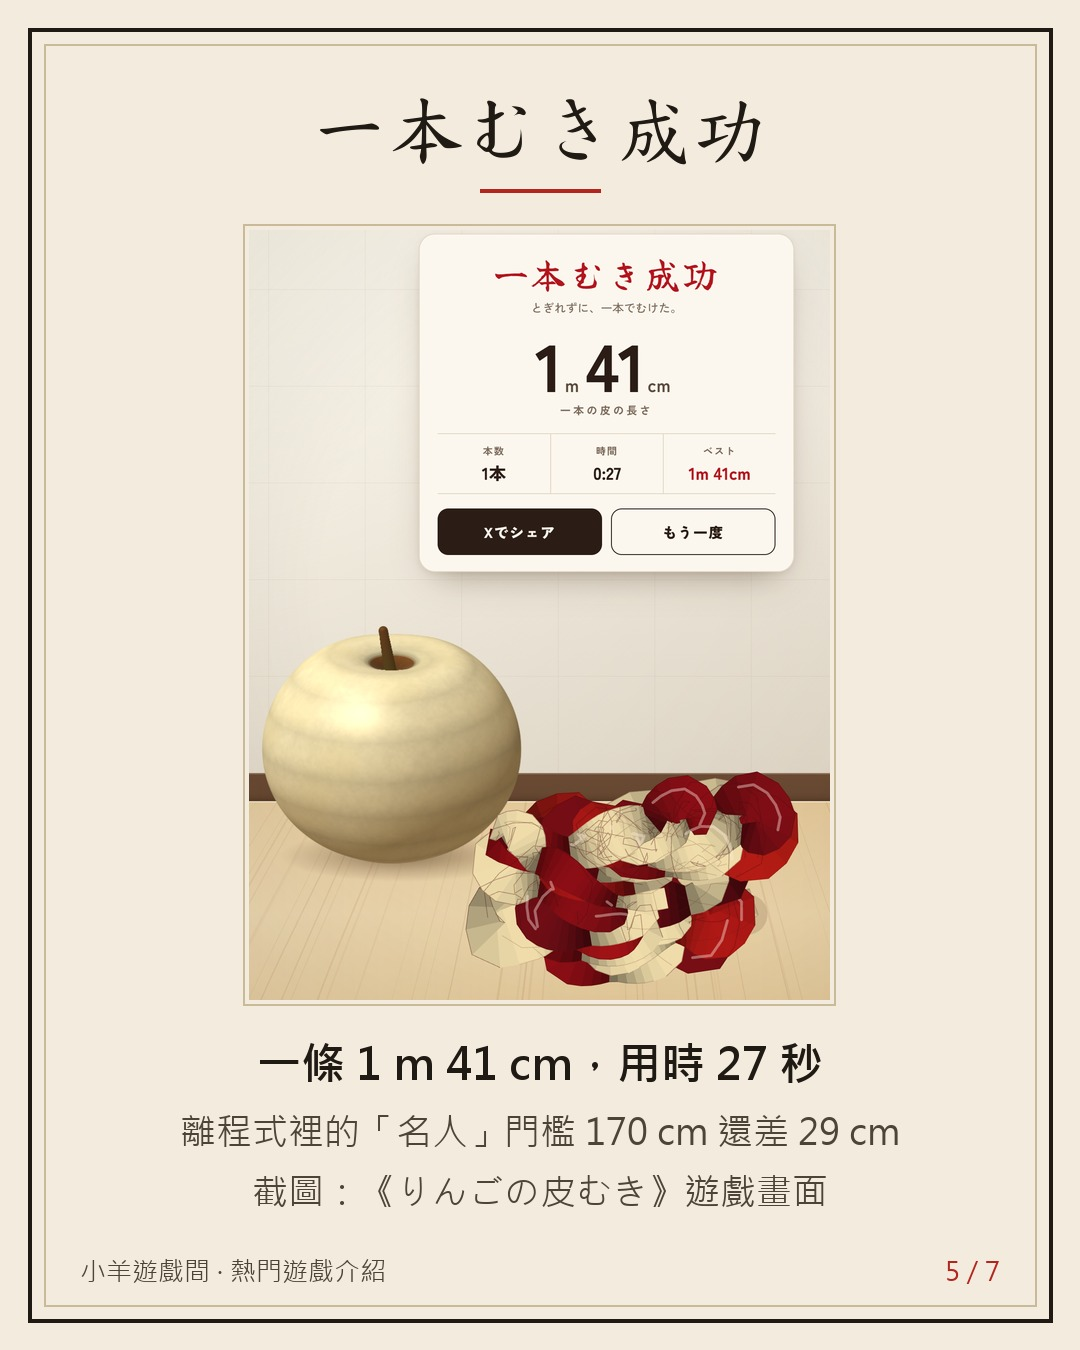
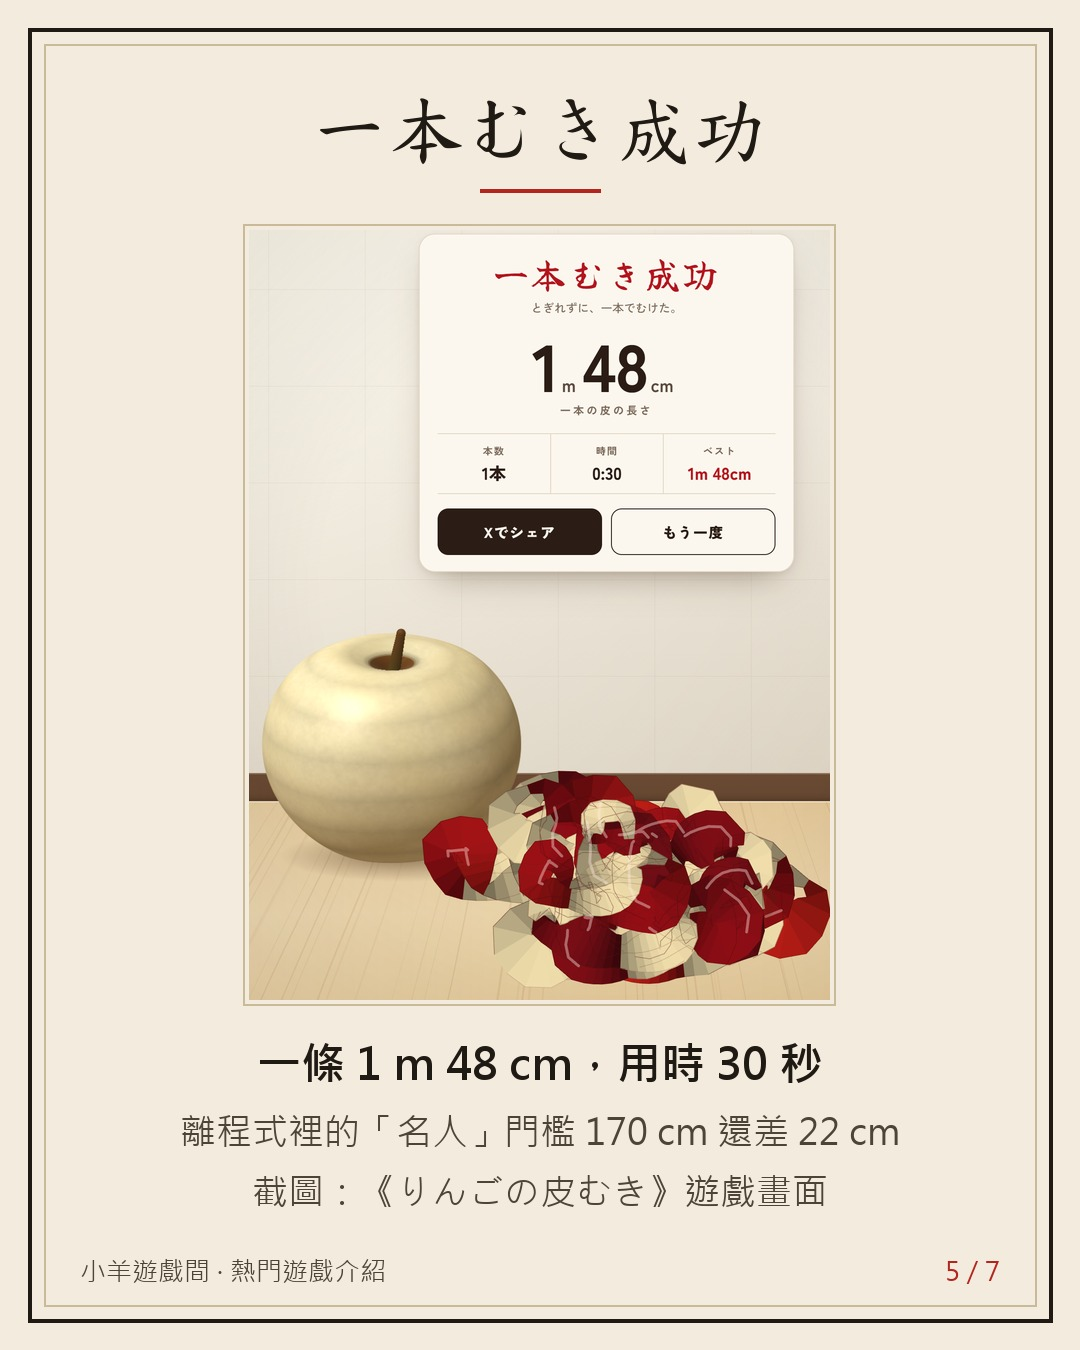
vault backup: 2026-11-22 23:58:42

diff --git a/Projects/auto promotion/posts/86.md b/Projects/auto promotion/posts/86.md
@@ -2,12 +2,12 @@
 id: 86
 type: popular
 game: りんごの皮むき（削蘋果皮／削蘋果大作戰，ringo-no-kawamuki.pages.dev，頁面署名站名「ひねもすリョータ」）
-topic: "削蘋果皮：用手指轉蘋果、一刀削出不斷的皮的網頁遊戲（星島頭條 10/23 爆紅網頁小遊戲整理收錄）；實測全力快拖 4 回都斷成 24～29 段、最長一段 8～13 cm；放慢到約 30 秒 11 回 6 回一條不斷、皮長 138～149 cm；程式：削越慢皮越薄越長、170 cm 封名人、240 cm 封仙人"
-status: 草稿
+topic: "削蘋果皮：用手指轉蘋果、一刀削出不斷的皮的網頁遊戲（星島頭條 10/23 爆紅網頁小遊戲整理收錄）；實測快拖 6 回斷成 6～9 段（3 回被封みじん切り）；放慢到約 27 秒 8 回 3 回一條不斷、138～148 cm；程式：170 cm 封名人、240 cm 封仙人"
+status: 待發
 created: 2026-11-22 21:30
-score: 0
+score: 8.2
 ---
-# 【介紹】網頁遊戲《りんごの皮むき》：手一快，蘋果皮碎成 28 段
+# 【介紹】網頁遊戲《りんごの皮むき》：同一顆蘋果，手快斷成 6 到 9 段
 
 ## Threads
 ### 1
@@ -15,20 +15,22 @@ score: 0
 手快一抖碎滿桌。
 
 【介紹】《りんごの皮むき》（削蘋果皮）
-話說江湖上有一門日式奇功：用手指轉蘋果，一刀削出一整條不斷的皮，看誰削得長。星島頭條 10/23 整理的爆紅網頁小遊戲有收錄，頁面署名站名「ひねもすリョータ」，作者沒有更多介紹。
+同一顆蘋果，快拖 6 回都斷成 6 到 9 段，放慢才削出一整條。
+話說江湖上有一門日式奇功：用手指轉蘋果，一刀削出一整條不斷的皮。星島頭條 10/23 整理的爆紅網頁小遊戲有收錄，頁面署名站名「ひねもすリョータ」，作者沒有更多介紹。
+圖片來源：《りんごの皮むき》官方
 ![[86/01.jpg]]
 ### 2
 且說在下實測：
-全力快拖，約 6 到 8 秒削完，4 回都碎成 24 到 29 段，最長一段只有 8 到 13 公分，皮加起來才 96 到 99 公分。
-放慢到約 30 秒，11 回有 6 回一氣呵成，一條 138 到 149 公分。
-同一顆蘋果，快削碎滿桌，慢削一條皮。江湖險惡 XD（滑鼠拖曳，時間與公分都是遊戲自己的讀數。）
+快拖約 15 秒削完，6 回斷成 6 到 9 段，其中 3 回被遊戲封「みじん切り」（碎末）。6 回裡有 3 回，官方認證在下的刀法是碎末。XD
+放慢到 26 到 30 秒，8 回有 3 回一氣呵成：138、141、148 公分；另 5 回斷成 2 到 4 段。
+（滑鼠、固定快慢；快拖 6 回、慢拖 8 回，樣本小；數字是遊戲自己的讀數，手指成績會不同。）
 ![[86/03.jpg]]
 ### 3
-翻開祕笈（遊戲公開程式）：削越慢，皮越薄、越長；手一急一抖，皮就斷。
-一條不斷的皮要 170 公分才封「皮むき名人」，240 公分封「りんご仙人」。在下最長 149 公分，離名人還差 29 公分。
-此功手機點開即可練，不用註冊。
-考考閣下：你一條皮削得幾公分？留言報個數。
-下回再介紹一門網頁奇功，一樣附實測數字，想看請追蹤。
+翻開祕笈（遊戲公開程式）：削越慢，皮越薄；手一急一抖，皮就斷。
+一條不斷的皮要 170 公分才封「皮むき名人」（削皮名人），240 公分封「りんご仙人」（蘋果仙人）。在下最長 148 公分，離名人還差 22 公分。
+訣竅：削越慢皮越薄（程式裡寬度隨速度變），在下實測總長也跟著長（快削 109 到 115，慢削 137 到 148 公分），但慢拖也只有 3/8 一條到底，要 170 還得更穩。
+網頁點開即玩，不用註冊。考考閣下：在下最長 148 公分，你一條皮削得幾公分？破 148 的留言報數，在下拱手。
+下回在下再削一輪，削到 170 就報喜，削不到也照實報數，想看請追蹤。
 ![[86/05.jpg]]
 ### 連結
 《りんごの皮むき》https://ringo-no-kawamuki.pages.dev/ （網頁點開即可玩，不用註冊）。想再找一門點了就玩的奇功，都在小羊遊戲間 👉 https://games.csiesheep.com/
@@ -38,12 +40,14 @@ score: 0
 慢削一刀皮不斷，手快一抖碎滿桌。
 
 【介紹】《りんごの皮むき》（削蘋果皮）
-話說江湖上有一門日式奇功：用手指轉蘋果，一刀削出一整條不斷的皮，看誰削得長。
-在下實測：全力快拖，約 6 到 8 秒削完，4 回都碎成 24 到 29 段，皮加起來才 96 到 99 公分；放慢到約 30 秒，11 回有 6 回一氣呵成，一條 138 到 149 公分。程式裡一條不斷的皮要 170 公分才封「名人」，在下最長 149 公分。（滑鼠拖曳，數字是遊戲自己的讀數。）
-網頁點開即玩，不用註冊。考考閣下：你一條皮削得幾公分？留言報個數。
-下回再介紹一門網頁奇功，一樣附實測數字，想看請追蹤。
+同一顆蘋果，快拖 6 回都斷成 6 到 9 段，放慢才削出一整條。
+話說江湖上有一門日式奇功：用手指轉蘋果，一刀削出一整條不斷的皮。
+在下實測：快拖約 15 秒，6 回中 3 回被遊戲封「みじん切り」（碎末）；放慢到 26 到 30 秒，8 回有 3 回一氣呵成：138、141、148 公分。程式裡一條不斷的皮要 170 公分才封「名人」，在下最長 148 公分，還差 22 公分。（滑鼠、固定快慢，數字是遊戲自己的讀數，手指的成績會不同。）
+網頁點開即玩，不用註冊。考考閣下：在下最長 148 公分，你一條皮削得幾公分？破 148 的留言報數，在下拱手。
+下回在下再削一輪，削到 170 就報喜，削不到也照實報數，想看請追蹤。
+圖：遊戲官方圖與遊戲畫面截圖
 
-連結在主頁
+連結在主頁（小羊遊戲間）
 #小羊遊戲間 #網頁遊戲推薦 #免費小遊戲 #削蘋果皮
 
 卡片：![[86/01.jpg]] ![[86/02.jpg]] ![[86/03.jpg]] ![[86/04.jpg]] ![[86/05.jpg]] ![[86/06.jpg]] ![[86/07.jpg]]
@@ -53,19 +57,21 @@ score: 0
 手快一抖碎滿桌。
 
 【介紹】《りんごの皮むき》（削蘋果皮）
-話說江湖上有一門日式奇功：用手指轉蘋果，一刀削出一整條不斷的皮，看誰削得長。桌面用滑鼠往右拖，手機用手指往右劃；拖得太急，皮就斷。星島頭條 10/23 整理的爆紅網頁小遊戲有收錄；頁面署名站名「ひねもすリョータ」，作者沒有更多介紹。
+同一顆蘋果，快拖 6 回都斷成 6 到 9 段，放慢才削出一整條。
+話說江湖上有一門日式奇功：用手指轉蘋果，一刀削出一整條不斷的皮。操作很簡單：往右拖；拖得太急，皮就斷。星島頭條 10/23 整理的爆紅網頁小遊戲有收錄；頁面署名站名「ひねもすリョータ」，作者沒有更多介紹。
 
-且說在下實測（滑鼠拖曳，時間與公分都是遊戲自己的讀數）：
-🍎 全力快拖：約 6 到 8 秒削完，4 回都碎成 24 到 29 段，最長一段 8 到 13 公分，皮加起來 96 到 99 公分。
-🐢 放慢到約 30 秒：11 回有 6 回一條不斷，皮長 138 到 149 公分，用時 26 到 30 秒；另 5 回斷成 2 到 5 段。
-同一顆蘋果，快削碎滿桌，慢削一條皮。江湖險惡 XD
+且說在下實測（滑鼠、固定快慢；數字是遊戲自己的讀數，手指成績會不同）：
+🍎 快拖：約 15 秒削完，6 回斷成 6、6、7、8、8、9 段，3 回被封「みじん切り」（碎末）；皮加起來 109 到 115 公分，最長一段 26 到 30 公分。6 回裡有 3 回，官方認證在下的刀法是碎末。XD
+🐢 放慢到 26 到 30 秒：8 回有 3 回一條不斷，138、141、148 公分；另 5 回斷成 2 到 4 段。
+同一顆蘋果，慢削的皮總長 137 到 148 公分，快削只有 109 到 115 公分。
 
 翻開祕笈（遊戲公開程式）：
-📜 蘋果半徑 4 公分；削越慢，皮越薄、越長，手一急一抖，皮就斷。
-📜 一條不斷的皮 170 公分封「皮むき名人」，240 公分封「りんご仙人」；斷成 8 段以上叫「みじん切り」（碎末）。
-📜 在下最長一條 149 公分，離名人還差 29 公分。
+📜 蘋果半徑 4 公分；削越慢，皮越薄，手一急一抖，皮就斷。
+📜 一條不斷的皮 170 公分封「皮むき名人」（削皮名人），240 公分封「りんご仙人」（蘋果仙人）；斷成 8 段以上叫「みじん切り」（碎末）。
+📜 在下最長一條 148 公分，離名人還差 22 公分。
+訣竅：削越慢皮越薄，總長也越長（快削 109 到 115，慢削 137 到 148 公分），但慢拖也只有 3/8 一條到底，要 170 還得更穩。
 
-網頁點開即可玩，不用註冊。考考閣下：你一條皮削得幾公分？留言報個數。下回再介紹一門網頁奇功，一樣附實測數字，想看請追蹤。
+網頁點開即可玩，不用註冊。考考閣下：在下最長 148 公分，你一條皮削得幾公分？破 148 的留言報數，在下拱手。下回在下再削一輪，削到 170 就報喜，削不到也照實報數，想看請追蹤。
 
 遊戲：https://ringo-no-kawamuki.pages.dev/
 👉 更多點了就玩的網頁小遊戲（不用註冊），都在小羊遊戲間：https://games.csiesheep.com/
@@ -79,15 +85,19 @@ score: 0
 - 同頁程式（未混淆，可讀）：PEEL.R_CM=4.0（蘋果半徑 4 cm）；削的寬度隨速度變（慢＝薄）；斷裂條件由拉力、速度突增與皮寬決定；rankOf：只有一條皮時 ≥240 cm「りんご仙人」、≥170 cm「皮むき名人」、其餘「一本むき成功」；斷 2～3 段「おしい」、4～7 段「ちぎれがち」、8 段以上「みじん切り」；操作＝指標往右拖（pointer events，手機可玩）
 - 星島頭條 2026-10-23 13:26 HKT「好過睇AI短劇!10個爆紅網上小遊戲」https://www.stheadline.com/ohpama/3629174 — 列有「削蘋果大作戰」並附連結 ringo-no-kawamuki.pages.dev，稱模擬在廚房削蘋果、手指繞蘋果表皮移動、要一氣呵成削出一條不斷的皮不容易；全文沒有作者名，沒有說是不是 AI 做的（所以貼文不寫 AI）
 - 4388 小遊戲站「削蘋果皮」頁（https://4388.fun/t/threads 收錄）— 說明「用手指慢慢轉動蘋果削皮，一刀不斷，看你能削多長」；評分 71%；作者、日期未載；不寫人氣數字
-- 實測（headless Chrome，真實滑鼠事件 Input.dispatchMouseEvent，遊戲碼為原檔未改；視窗 1200×900，每回重新載入、按「むきはじめる」；每筆拖曳由慢到快加速 0.9 秒、拖到約 960 px 就放開再從左抓；工具 Pictures/auto_promotion/post_frames/86_apple/tools/peel2.mjs、peel3.mjs；記錄 shots/results2.jsonl、results3.jsonl，另有 17 筆 results_loaded_INVALID.jsonl 是 8 個 Chrome 同時跑、畫面掉幀時的數據，已作廢不用）
-  - 數字都取自遊戲自己的 st.pieces／長度／時間：全力快拖（目標 9 cm/s，8 個 Chrome 並跑 2 路）4 回：24、28、28、29 段，皮總長 96.0～98.9 cm，最長一段 7.8～12.7 cm（貼文寫 8～13），遊戲時間 5.8～8.1 秒（貼文寫約 6～8 秒）
-  - 慢拖（目標 6 cm/s）共 11 回（results2 的 4 回＋results3 的 3 回＋第三批 4 回）：一條 6 回（138.1、139.7、140.9、141.1、147.7、148.7 cm，用時 26.3～30.1 秒），2 段 3 回、4 段 1 回、5 段 1 回；最長一條 148.7 cm（貼文寫 149）
-  - 注意：掉幀會讓遊戲時鐘變慢、同樣拖曳變成更快的速度，所以貼文只寫遊戲讀數、不寫實際 cm/s；其他速度（3、4.5 cm/s）也跑過但因掉幀與抓放起手結果混亂，不寫
-  - 限制：滑鼠、固定加速曲線；手指實際成績以自己為準；沒有試過 240 cm「仙人」
-  - 截圖：Pictures/auto_promotion/post_frames/86_apple/shots/（卡片用 jb_mid、jb_end1_1、sm9_end；原圖複製到 posts/86/src/）
+- 實測（headless Chrome，真實滑鼠事件 Input.dispatchMouseEvent，遊戲碼為原檔未改；視窗 1200×900，每回重新載入、按「むきはじめる」、語言設日文；每筆拖曳由慢到快加速 0.9 秒、拖到約 960 px 就放開再從左抓；工具 Pictures/auto_promotion/post_frames/86_apple/tools/peel3.mjs；記錄 shots/results3.jsonl；一次只開一個 Chrome，遊戲時鐘與實際時間相符）
+  - 數字都取自遊戲自己的 st.pieces／長度／時間。快拖（目標 9 cm/s）6 回：8、6、6、7、8、9 段（3 回 ≥8 段＝「みじん切り」，其餘「ちぎれがち」），皮總長 109.0～115.4 cm，最長一段 25.6～29.6 cm（寫 26～30），遊戲時間 14.7～16.6 秒（寫約 15 秒）
+  - 慢拖（目標 6 cm/s）8 回（8 回遊戲時間都在 26.3～30.0 秒，其中不斷的 3 回 26.3、27.4、30.0 秒）（ja6 3 回＋jb 4 回＋solo6 1 回）：一條不斷 3 回（138.1、140.9、147.7 cm，用時 26.3、27.4、30.0 秒；最長寫 148），2 段 3 回、4 段 2 回；5 回斷掉的總長 137.2～138.8 cm；8 回總長 137.2～147.7 cm
+  - 作廢不用：results_loaded_INVALID.jsonl（8 個 Chrome 同時跑、掉幀，快拖變成斷 24～29 段）、results2.jsonl（2 個 Chrome 並跑，同樣怕掉幀）；以及 3、4.5 cm/s 的跑法，抓放起手造成結果混亂，貼文都不寫
+  - 限制：滑鼠、固定一種加速曲線；手指實際成績不同；沒試過 240 cm「仙人」；實際速度以遊戲讀數為準，不寫 cm/s
+  - 截圖：Pictures/auto_promotion/post_frames/86_apple/shots/（卡用 jb_mid、jb_end2_1、solo9_end0_8；原圖複製到 posts/86/src/）；一次性 curl 取得官方 og 圖 ogp.png
+- 差 22 cm＝170−148；卡 5 的截圖是 148 cm（1 m 48 cm）那回
 
 ## 打磨紀錄
 | 回合 | 1 | 2 | 3 | 4 | 5 | 6 | 7 | 8 | 9 | 10 | 平均 | 主要修改 |
 |---|---|---|---|---|---|---|---|---|---|---|---|---|
+| 1 | 6 | 8 | 6 | 7 | 7 | 5 | 7 | 7 | 7 | 9 | 6.9 | 獨立 judge（sonnet）：未達標，第 6 項 5。改：「還差 29」算錯（149 對 170 是 21）；快拖那批是 8 個 Chrome 並跑、掉幀，作廢重跑單一 Chrome（斷 6～9 段而非 24～29 段）；標題與卡 3 不用單一數字；加方法註記；對聯下加數字鉤子；用「みじん切り」封號當笑點 |
+| 2 | 8 | 9 | 7 | 8 | 8 | 6 | 8 | 8 | 7 | 9 | 7.6 | 修：27 秒改 26～30 秒（8 回都在此範圍）；刪沒實機測的「手機點開即可練」；對聯下數字鉤子改「快拖」；Threads 3 補譯名、給可帶走的數字訣竅、結尾改「削到 170 就報喜」；IG/Threads 補圖源 |
+| 3 | 8 | 9 | 7 | 8 | 8 | 8 | 8 | 8 | 8 | 10 | 8.2 | 達標。修：「往右拖」不再說成遊戲提示；因果說成實測觀察並註樣本小；碎末笑點寫明 6 回裡有 3 回；留言題給 148 當基準。不採：「屏息削 30 秒」「差一張 A4 紙」（編造感受） |
 
 ## 發文紀錄

diff --git a/Projects/auto promotion/posts/topics.md b/Projects/auto promotion/posts/topics.md
@@ -63,6 +63,6 @@
 ## 候選（2026-11-07 21:58 producer 查到，未寫；來源不足，寫前要再查作者）
 - （已寫 #67）《塗鴉過山車／Doodle Coaster》https://rakugaki-coaster.pages.dev/ （頁面原始碼有 og.png 官方圖、說明「畫一條線變成雲霄飛車、第一人稱乘坐」；頁面碼出現 @kikuchitls 但搜尋找不到作者資料；星島頭條 2026-10-23 列為 Threads 爆紅小遊戲 https://www.stheadline.com/ohpama/3629174 ）
 - 《金鐘站擠爆車廂大作戰》（已寫 #79）、《搣紙巾》（已寫 #82）https://tissuetissue.netlify.app/ 港產，同篇報導，作者未載
-- 《削蘋果大作戰》https://ringo-no-kawamuki.pages.dev/ 、《堆疊雪糕球》https://scoop-tower-game.vercel.app 、《唧牙膏》https://hedorobomb.com/game/hamigaki-game/
+- 《削蘋果大作戰》（已寫 #86）https://ringo-no-kawamuki.pages.dev/ 、《堆疊雪糕球》https://scoop-tower-game.vercel.app 、《唧牙膏》https://hedorobomb.com/game/hamigaki-game/
 
 - 《今天也要平安下班／老師，今天能平安下班嗎？》（2026-11-22 producer 再查：只在 claude.ai artifact，Cloudflare 機器人驗證擋下、拿不到畫面，仍未寫；2026-11-16 producer 查到，未寫）國中老師情境生存網頁遊戲，約120題，Threads 爆紅；原版曾下架，作者另出《輔導室：今天也不能倒下》《笑鼠會議》。來源：https://www.mnews.tw/story/mm-20261016-229edi-121535 、https://cava.tw/money/workforce/267738 、https://iqmore.tw/junior-high-school-teacher-school-affairs-meeting-web-game 、https://flipedu.parenting.com.tw/article/011125 。注意：牽涉校事會議制度爭議，中時提醒遊戲不等於實際制度，寫時不替任何一方背書；中時原文連結 404、作者帳號未確認。

diff --git a/Projects/auto promotion/2026-11-23.md b/Projects/auto promotion/2026-11-23.md
@@ -99,3 +99,4 @@
 | 15:29 | promo-producer | 開始 | 審稿：第 58 首 altar_apple 的 c1 已問過 owner（11/20）尚無回覆，維持要修改不動；鬼唱詩 第 57 首寫作中；熱門貼文 3<4，寫一篇熱門貼文 |  |
 | 15:30 | games-replies-hub-1530 | 開始 | 15:30 小羊遊戲間組開始，Threads=@csiesheep |  |
 | 15:33 | games-replies-hub-1530 | 跳過 | 沒有合適的找遊戲串文（6 個關鍵字，皆粵語、手遊/GTA 討論、開發者自薦或廣告）Threads=@csiesheep |  |
+| 15:58 | promo-producer | 完成 | 熱門貼文 #86《りんごの皮むき》待發（8.2）；熱門 4／日記 4；第 58 首仍待 owner 回覆；卡 2、Reel 3、鬼唱詩 第 57 首寫作中 |  |
